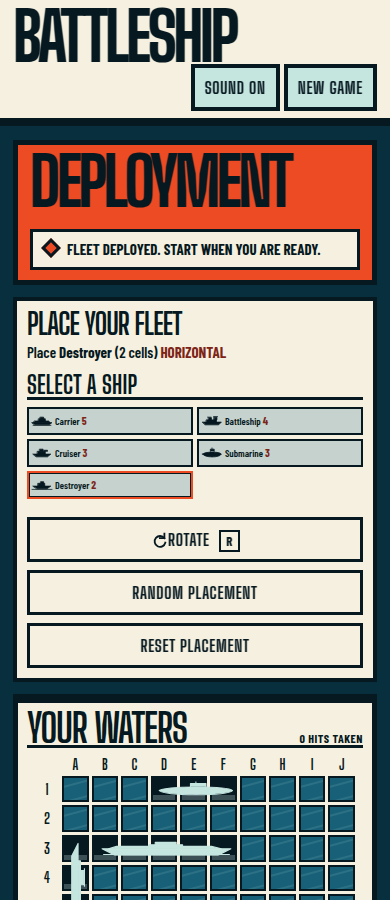
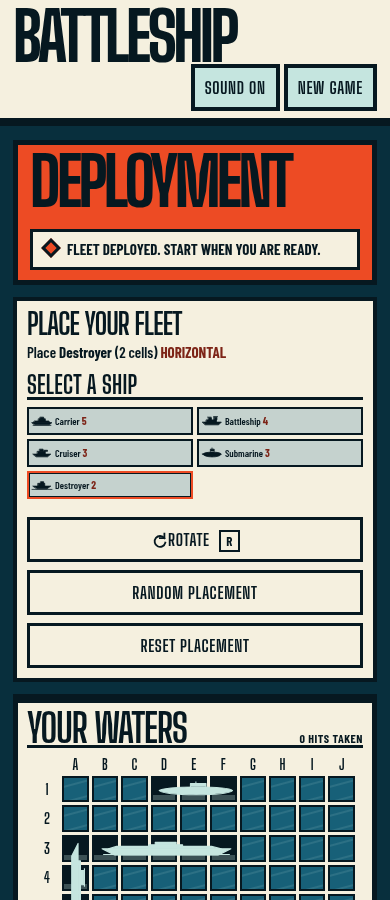
Capture contained full-strength wrecks

diff --git a/src/styles.css b/src/styles.css
@@ -576,7 +576,7 @@ kbd {
 }
 
 .cell-vessel-wreck {
-  height: 52%;
+  height: 40%;
 }
 
 .cell-vessel-half .ship-icon {
@@ -586,13 +586,13 @@ kbd {
 }
 
 .cell-vessel-half-a {
-  clip-path: inset(0 50% 0 0);
+  clip-path: inset(0 53% 0 0);
   transform-origin: right center;
   animation: wreck-half-a 620ms ease-out forwards;
 }
 
 .cell-vessel-half-b {
-  clip-path: inset(0 0 0 50%);
+  clip-path: inset(0 0 0 53%);
   transform-origin: left center;
   animation: wreck-half-b 620ms ease-out forwards;
 }
@@ -611,7 +611,7 @@ kbd {
   }
   to {
     opacity: 1;
-    transform: translate(-5px, 0) rotate(-4deg);
+    transform: rotate(-4deg);
   }
 }
 
@@ -622,7 +622,7 @@ kbd {
   }
   to {
     opacity: 1;
-    transform: translate(5px, 0) rotate(4deg);
+    transform: rotate(4deg);
   }
 }
 
@@ -834,13 +834,13 @@ kbd {
   .cell-vessel-half-a {
     animation: none;
     opacity: 1;
-    transform: translate(-5px, 0) rotate(-4deg);
+    transform: rotate(-4deg);
   }
 
   .cell-vessel-half-b {
     animation: none;
     opacity: 1;
-    transform: translate(5px, 0) rotate(4deg);
+    transform: rotate(4deg);
   }
 
   *,

diff --git a/DESIGN.md b/DESIGN.md
@@ -34,7 +34,7 @@ active call to action and combat states.
 - A newly sunk vessel fractures into two authored flat-profile halves over
   roughly 620ms: a hard 10px central gap opens, the bow and stern list apart
   by opposing 4° tilts, and the full-opacity halves remain at full scale as a
-  readable wreck. The wreck profile uses a reduced 52% cross-axis height so
+  readable wreck. The wreck profile uses a reduced 40% cross-axis height so
   the rotated silhouette stays inside its cell run. Reduced motion skips
   directly to that broken resting state.
 - Fired states stay value-separated on petrol water: a quiet flattened-water
